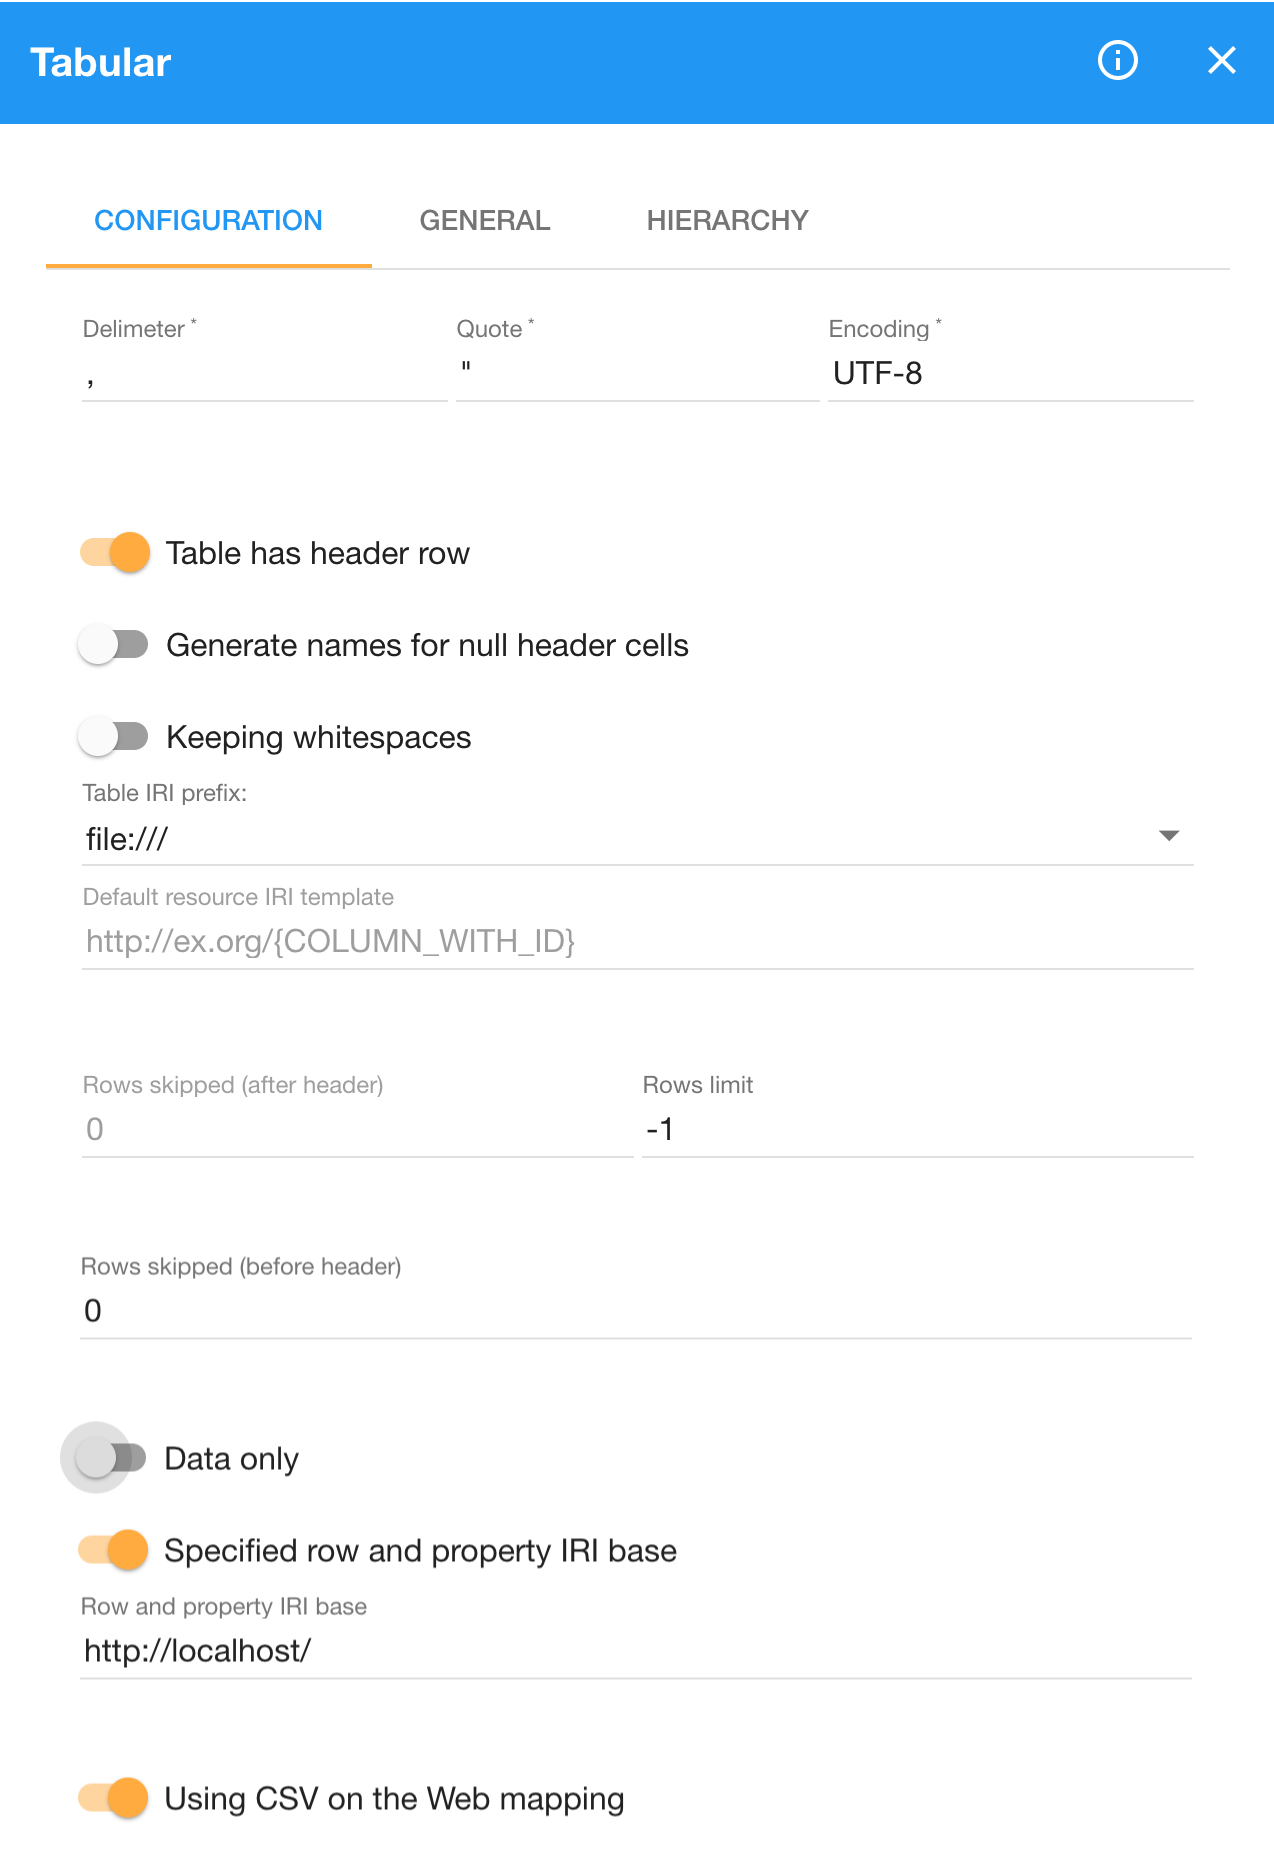
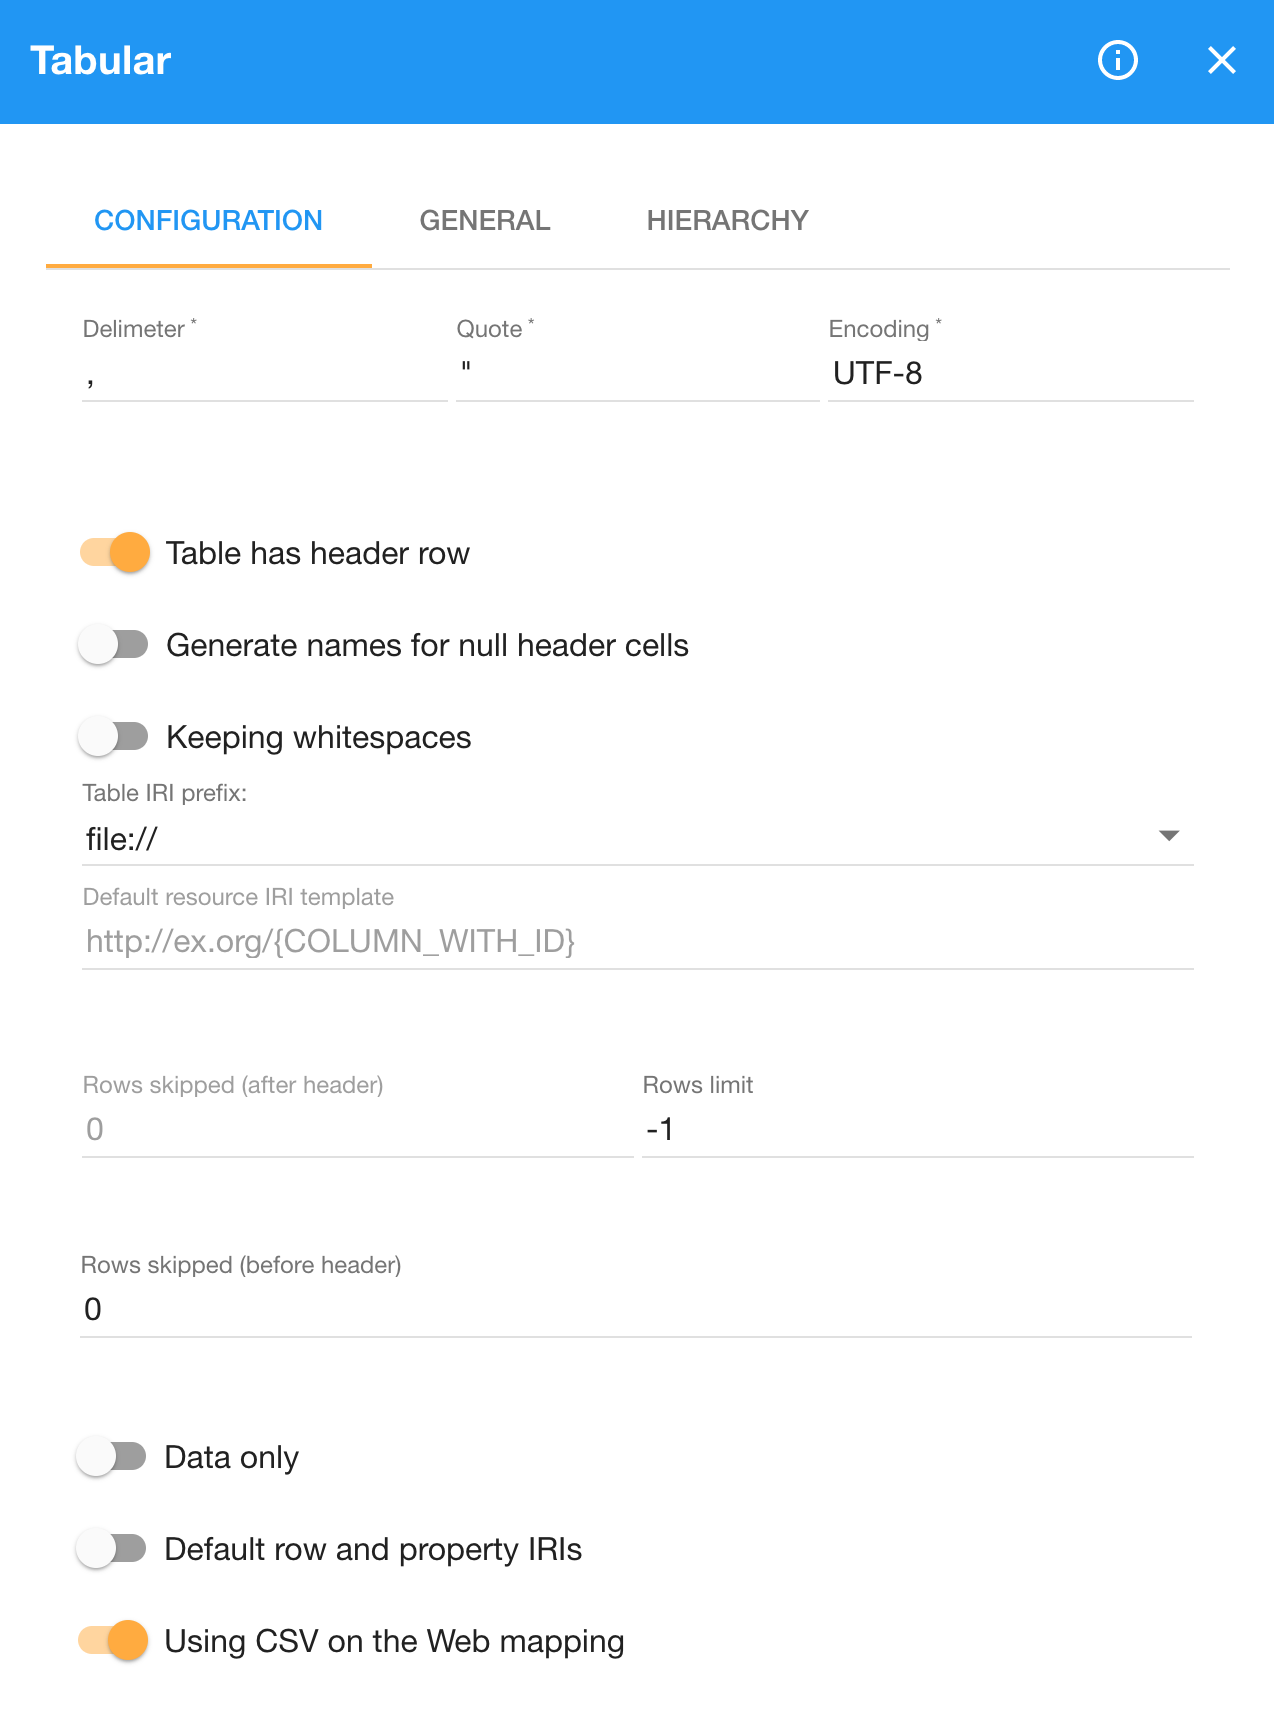
Reorganize CSV to RDF how-to

diff --git a/_tutorials/how-to/convert_csv_to_rdf.html b/_tutorials/how-to/convert_csv_to_rdf.html
@@ -49,10 +49,10 @@ title: How to convert CSV to RDF
 
 <h3 class="header center orange-text">Solution</h3>
 
-<p class="flow-text">Converting CSV to RDF is a task so common that numerous solutions were devised to address it. LinkedPipes ETL (LP-ETL) offers the <a href="{% link _components/t-tabular.html %}">Tabular</a> component for this task. It performs a syntactic transformation of CSV to RDF that follows the W3C recommendation <a href="https://www.w3.org/TR/csv2rdf">Generating RDF from Tabular Data on the Web</a>. Simply put, it turns rows from a CSV file into RDF resources described by RDF properties derived from the file's column headers. Here is an example output of the Tabular component for the CSV fragment shown above, using a prettified <a href="https://www.w3.org/TR/turtle">Turtle</a> syntax for RDF:</p>
+<p class="flow-text">Converting CSV to RDF is a task so common that numerous solutions were devised to address it. LinkedPipes ETL (LP-ETL) offers the <a href="{% link _components/t-tabular.html %}">Tabular</a> component for this task. It performs a syntactic transformation of CSV to RDF that follows the W3C recommendation <a href="https://www.w3.org/TR/csv2rdf">Generating RDF from Tabular Data on the Web</a>. Simply put, it turns rows from a CSV file into RDF resources described by RDF properties derived from the file's column headers. Here is an output of the Tabular component for the CSV fragment shown above using the default settings of the component. The output is shown in a prettified <a href="https://www.w3.org/TR/turtle">Turtle</a> syntax for RDF:</p>
 
 {% highlight turtle %}
-@base <http://localhost/> .
+@base <file://media-types.csv#> .
     
 [ <Media+Type> "text/css" ;
   <Subtype> "css" ;
@@ -71,6 +71,8 @@ title: How to convert CSV to RDF
   <Template> "http://www.iana.org/assignments/media-types/text/csv-schema" ;
   <Type> "text" ] .
 {% endhighlight %}
+
+<p class="flow-text">The pipeline that implements this conversion is <a href="{% link /assets/tutorials/how-to/pipelines/how_to_convert_csv_to_rdf.jsonld %}">here</a>. You can experiment with the settings of the Tabular component in this pipeline, run it, and examine its output.</p>
 
 <p class="flow-text">Let's review the configuration options of this component. The component exposes quite a few options to customize how it handles its input as well as how its output should look like.</p>
 
@@ -102,8 +104,6 @@ title: How to convert CSV to RDF
 <p class="flow-text">The Tabular component implements the W3C recommendation <a href="https://www.w3.org/TR/csv2rdf">Generating RDF from Tabular Data on the Web</a>. The option <em>Using CSV on the Web mapping</em>, turned on by default, instructs the component to follow this recommendation. The recommendation specifies how to map CSV to RDF. It defines two modes of conversion. The <a href="https://www.w3.org/TR/csv2rdf/#dfn-minimal-mode">minimal mode</a> includes only the data from the cells of the transformed CSV. The <a href="https://www.w3.org/TR/csv2rdf/#dfn-standard-mode">standard mode</a> also outputs RDF describing the structure of the transformed CSV, including details of rows, tables, and table groups. The minimal mode is the default mode in the Tabular component, as indicated by the switch <em>Data only</em>. Should you want the structure of the input CSV to be explicitly described in RDF, flip this switch to the state <em>Table and row entities</em>.</p>
 
 <p class="flow-text">You can provide a custom mapping from CSV to RDF if you switch the option <em>Using CSV on the Web mapping</em> off to <em>Using custom mapping</em>. Custom mapping is included mostly to maintain compatibility with the previous versions of the Tabular component. More often than not, you will map the Tabular's default output in the subsequent steps of your pipeline that allow you to formulate more expressive mappings, such as those <a href="{% link _tutorials/how-to/map_rdf_properties.html %}">using SPARQL Update</a>. However, there are cases in which the custom mapping is indispensable. When you transform large CSV data containing many irrelevant columns, they too are converted to RDF when using the standard mapping. On contrary, the custom mapping allows you to mark columns to be discarded, so that no RDF is created from them. Doing so reduces the use of compute resources that would be required for data subsequently discarded in a pipeline.</p>
-
-<p class="flow-text">An example pipeline for conversion of the IANA media types to RDF is <a href="{% link /assets/tutorials/how-to/pipelines/how_to_convert_csv_to_rdf.jsonld %}">here</a>. You can experiment with the settings of the Tabular component in this pipeline, run it, and examine its output.</p>
 
 <h3 class="header center orange-text">Discussion</h3>
 
